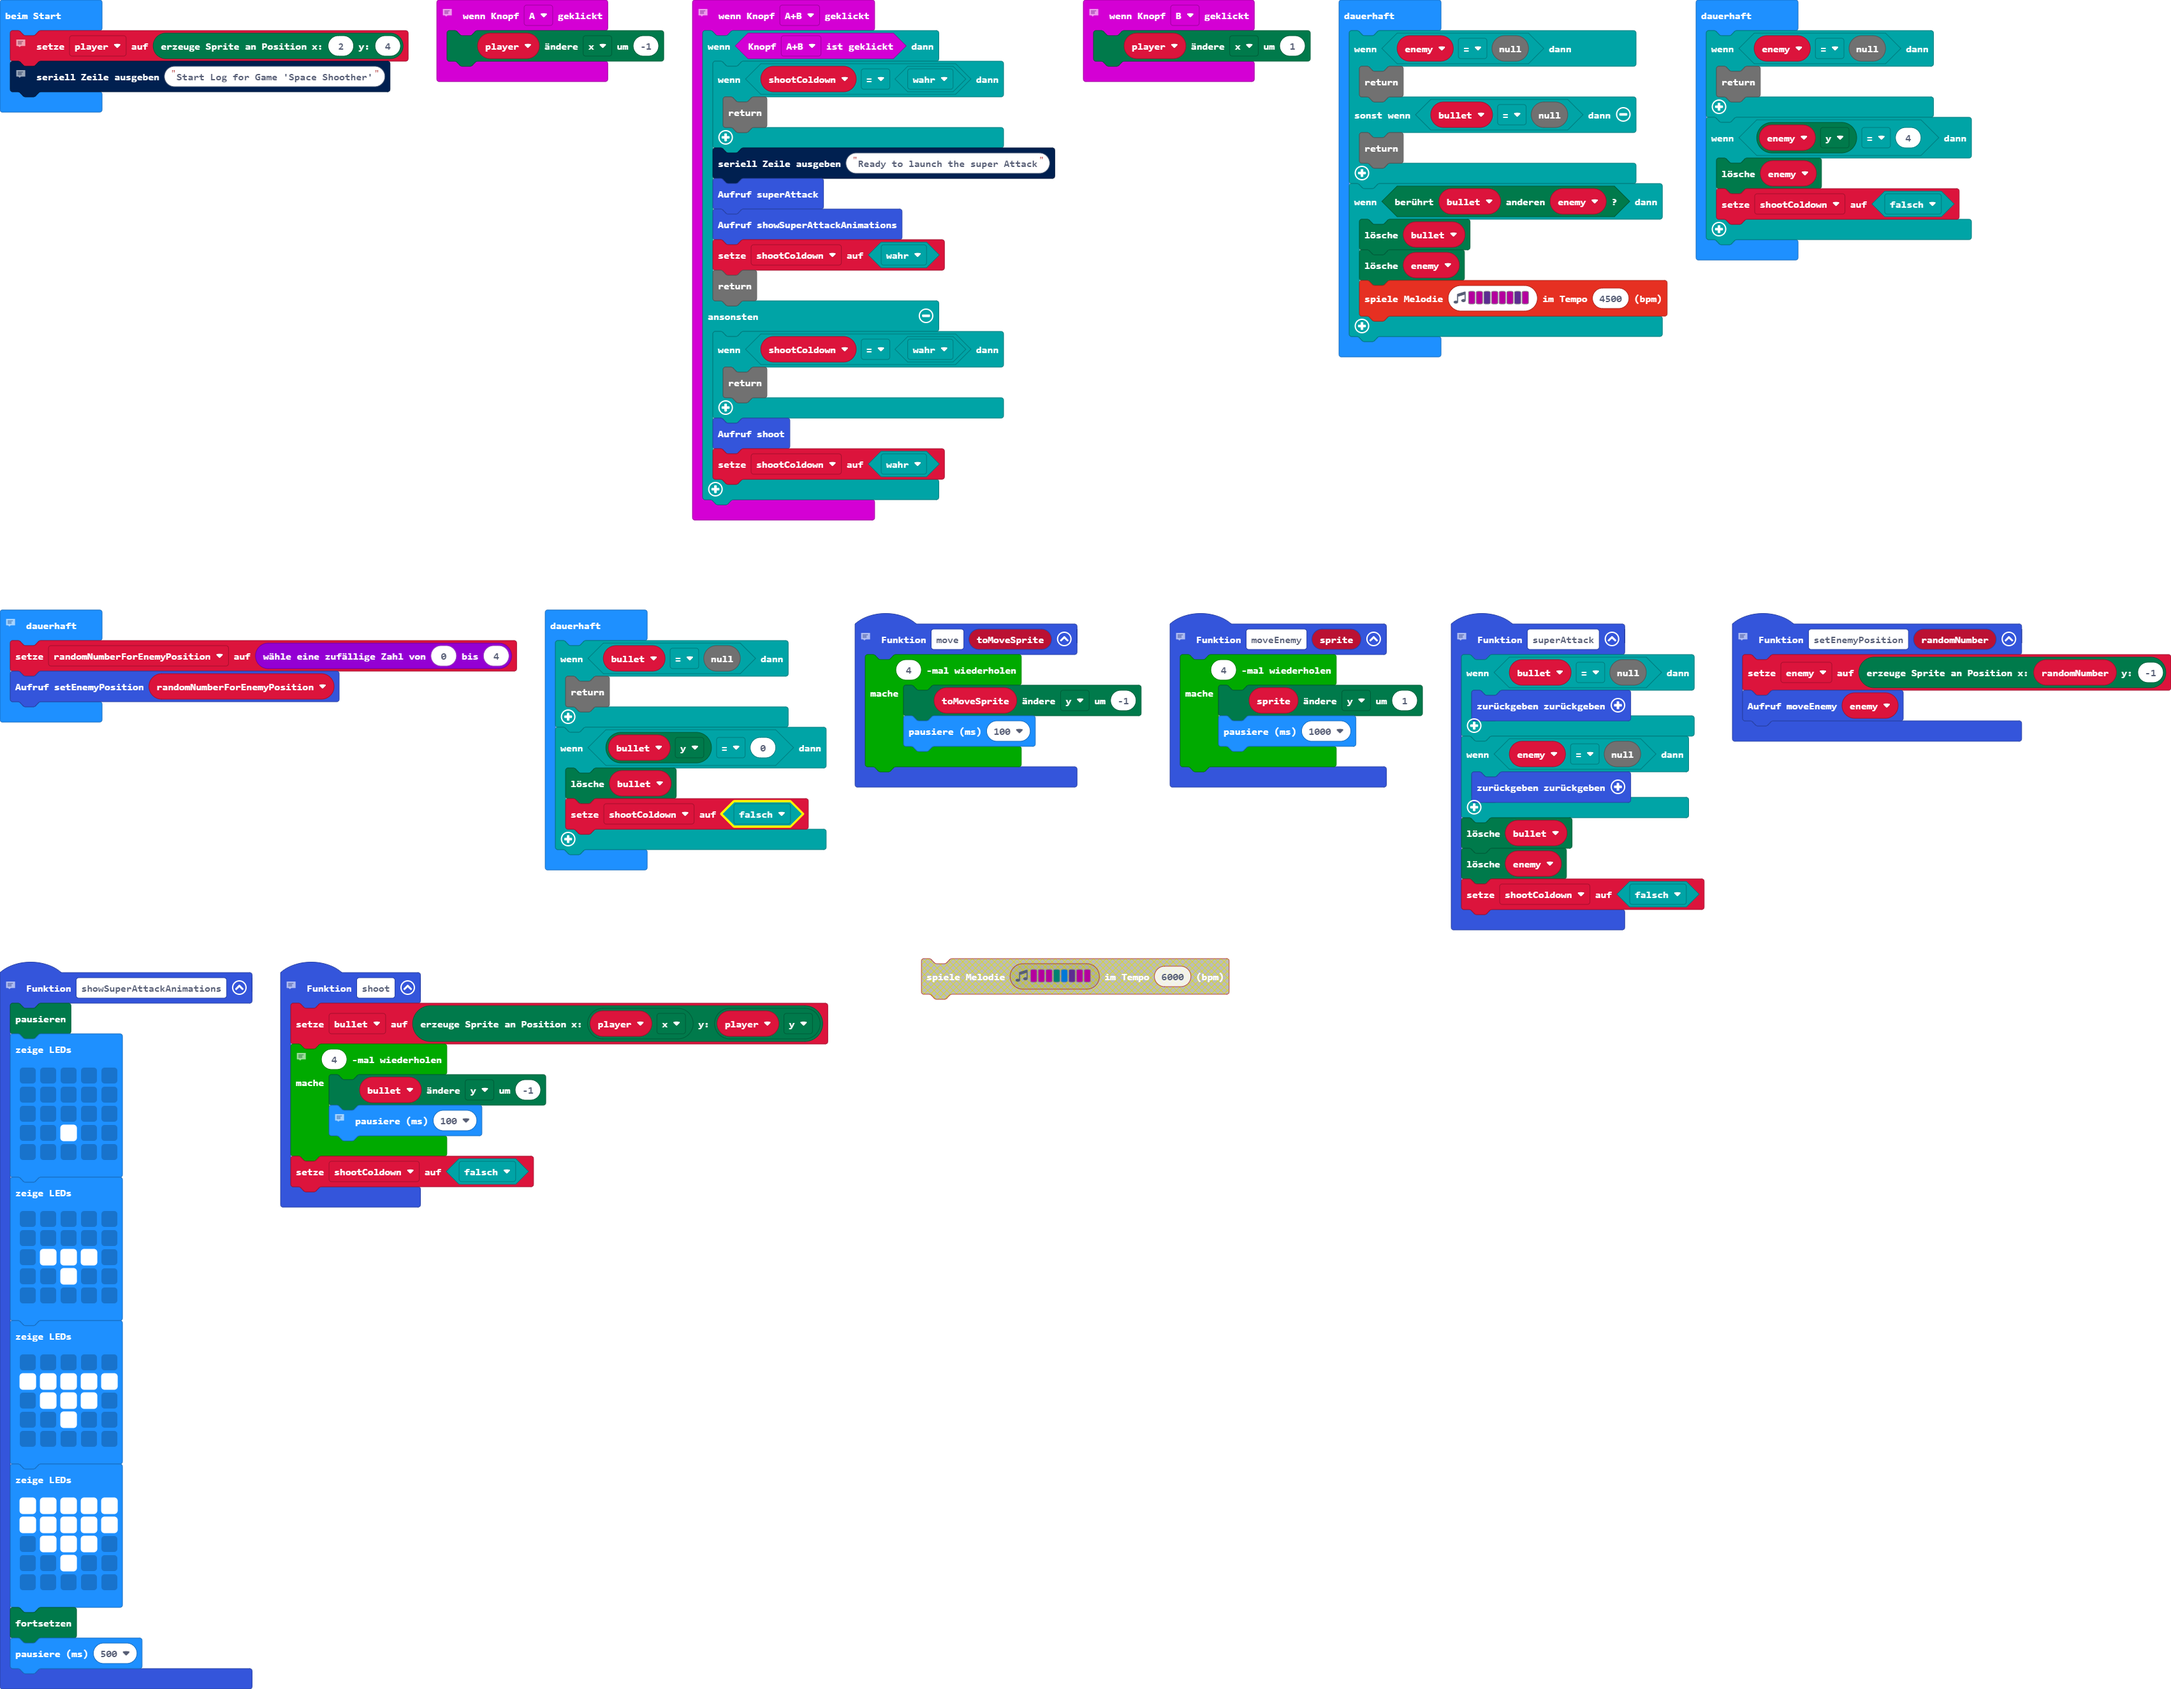
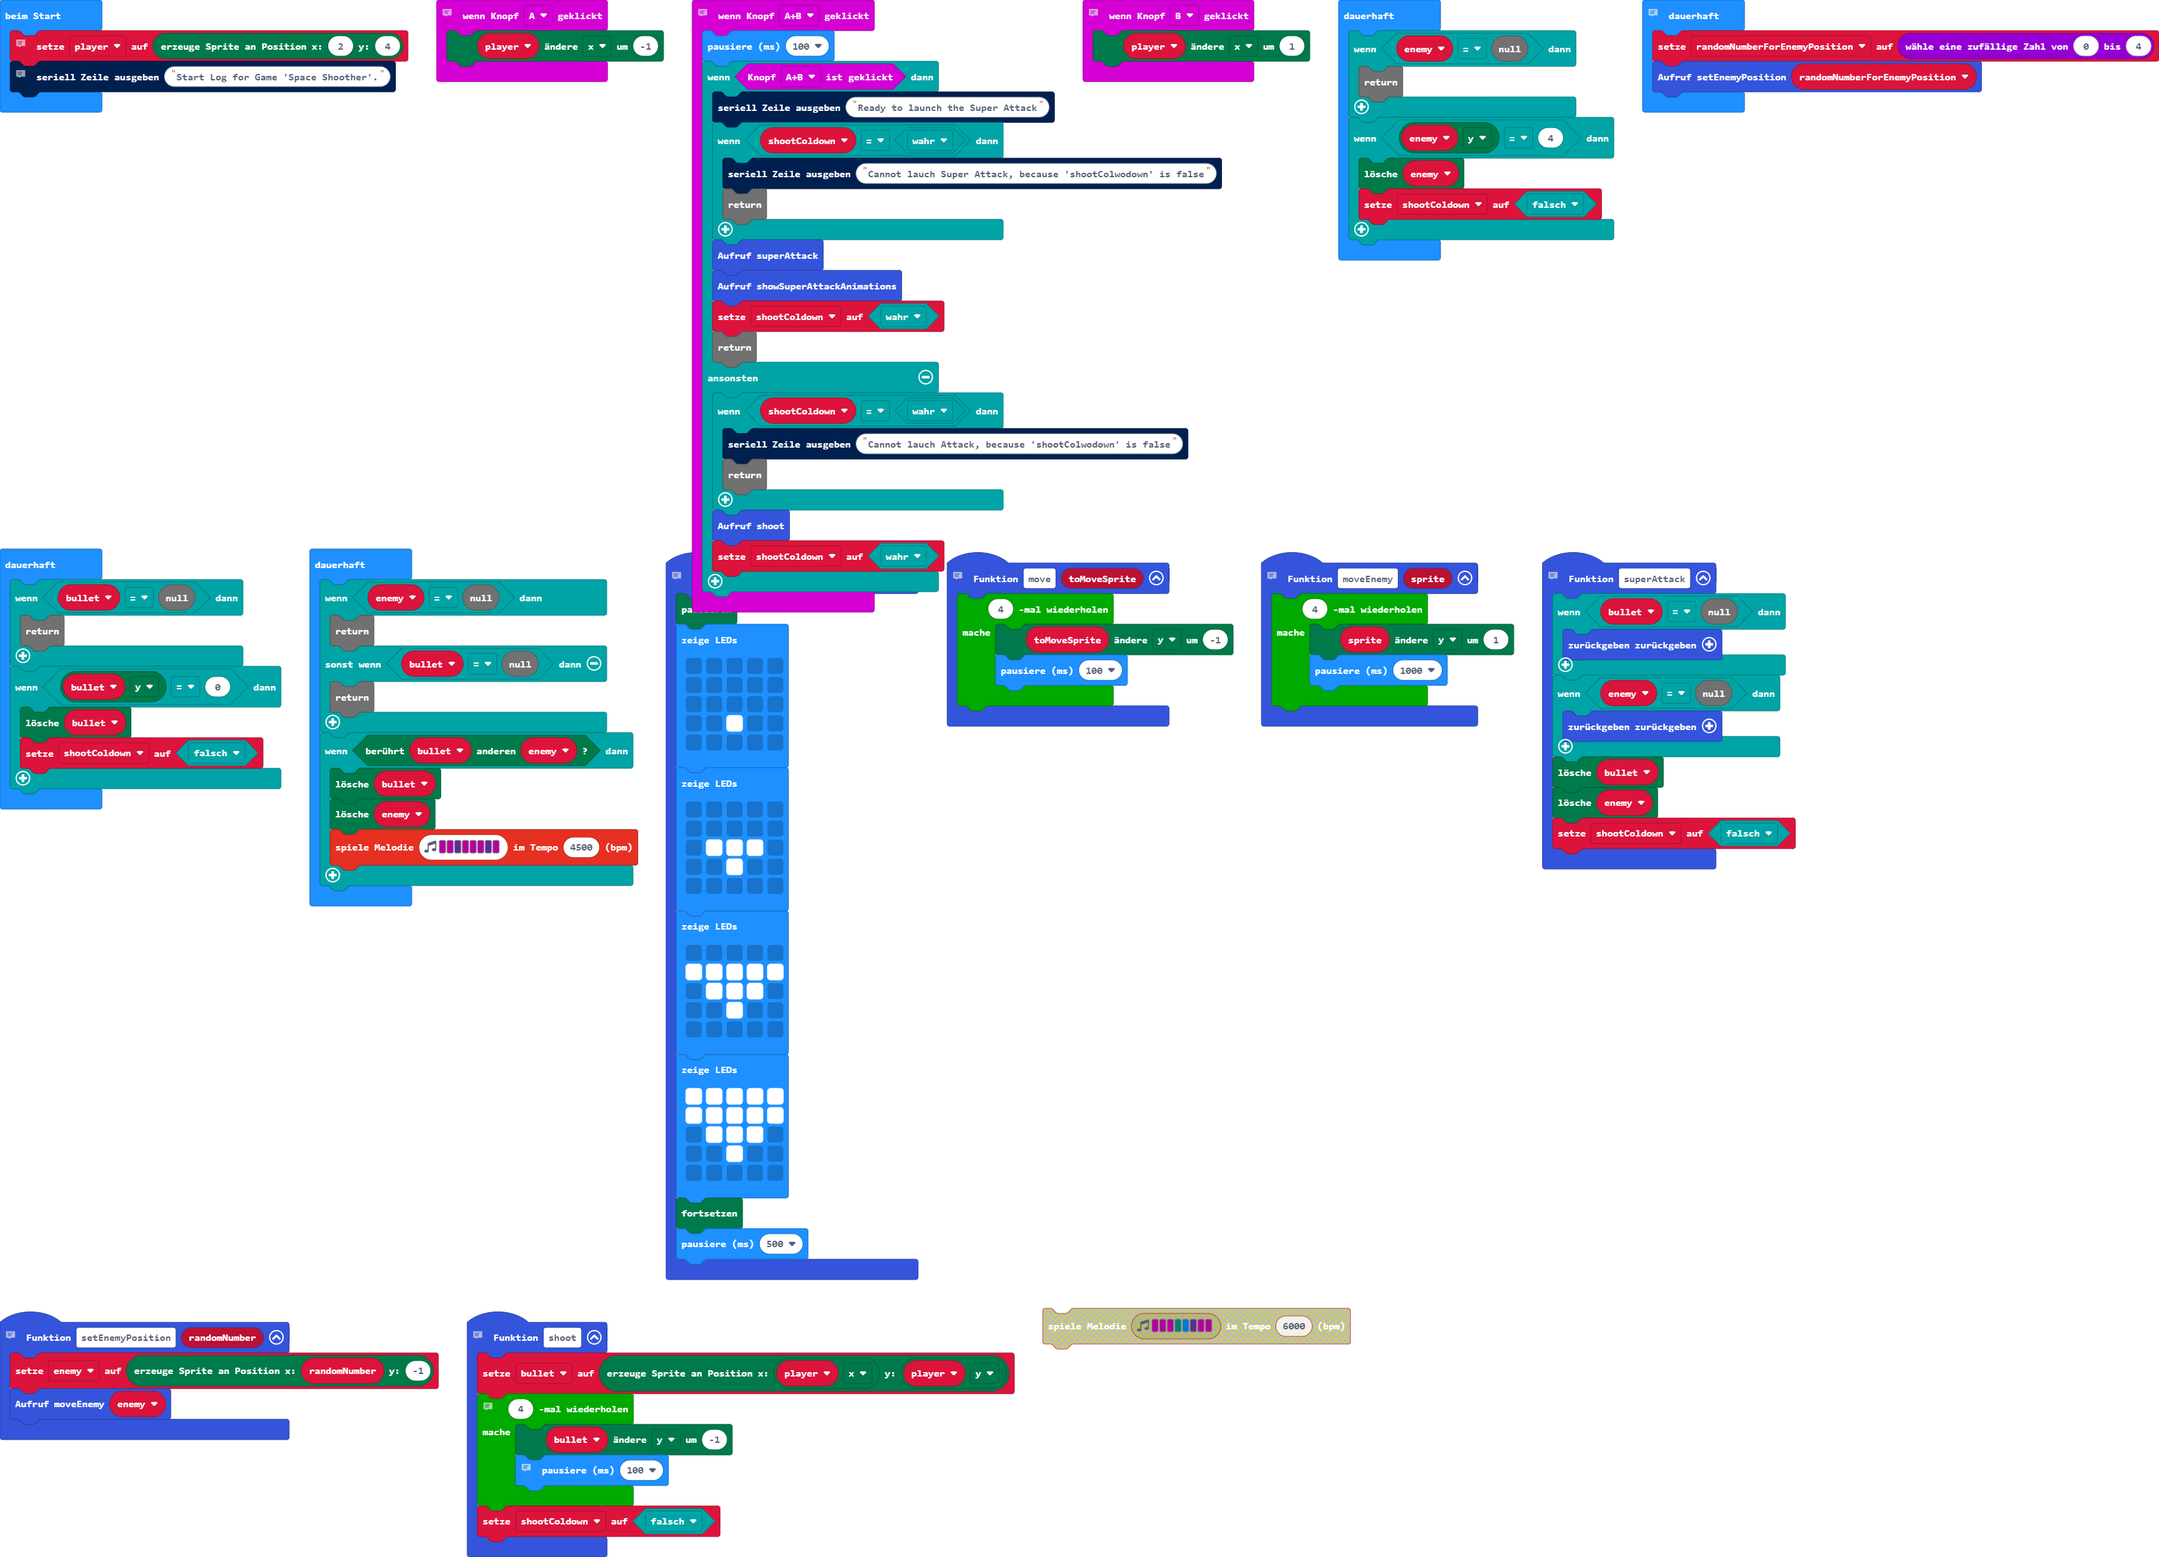
Aktualisiere main.blocks, main.ts

Changed region(s): [[0.0, 0.0, 1.0, 1.0], [0.403, 0.5602, 0.589, 0.5913]]

diff --git a/main.ts b/main.ts
@@ -68,17 +68,20 @@ function superAttack () {
 }
 // Input for Button 'AB'
 input.onButtonPressed(Button.AB, function () {
+    basic.pause(100)
     if (input.buttonIsPressed(Button.AB)) {
+        serial.writeLine("Ready to launch the Super Attack")
         if (shootColdown == true) {
+            serial.writeLine("Cannot lauch Super Attack, because 'shootColwodown' is false")
             return
         }
-        serial.writeLine("Ready to launch the super Attack")
         superAttack()
         showSuperAttackAnimations()
         shootColdown = true
         return
     } else {
         if (shootColdown == true) {
+            serial.writeLine("Cannot lauch Attack, because 'shootColwodown' is false")
             return
         }
         shoot()
@@ -109,19 +112,7 @@ let player: game.LedSprite = null
 // Create Player
 player = game.createSprite(2, 4)
 // Log
-serial.writeLine("Start Log for Game 'Space Shoother'")
-basic.forever(function () {
-    if (enemy == null) {
-        return
-    } else if (bullet == null) {
-        return
-    }
-    if (bullet.isTouching(enemy)) {
-        bullet.delete()
-        enemy.delete()
-        music.playMelody("C C D C C C D C ", 4500)
-    }
-})
+serial.writeLine("Start Log for Game 'Space Shoother'.")
 basic.forever(function () {
     if (enemy == null) {
         return
@@ -143,5 +134,17 @@ basic.forever(function () {
     if (bullet.get(LedSpriteProperty.Y) == 0) {
         bullet.delete()
         shootColdown = false
+    }
+})
+basic.forever(function () {
+    if (enemy == null) {
+        return
+    } else if (bullet == null) {
+        return
+    }
+    if (bullet.isTouching(enemy)) {
+        bullet.delete()
+        enemy.delete()
+        music.playMelody("C C D C C C D C ", 4500)
     }
 })
